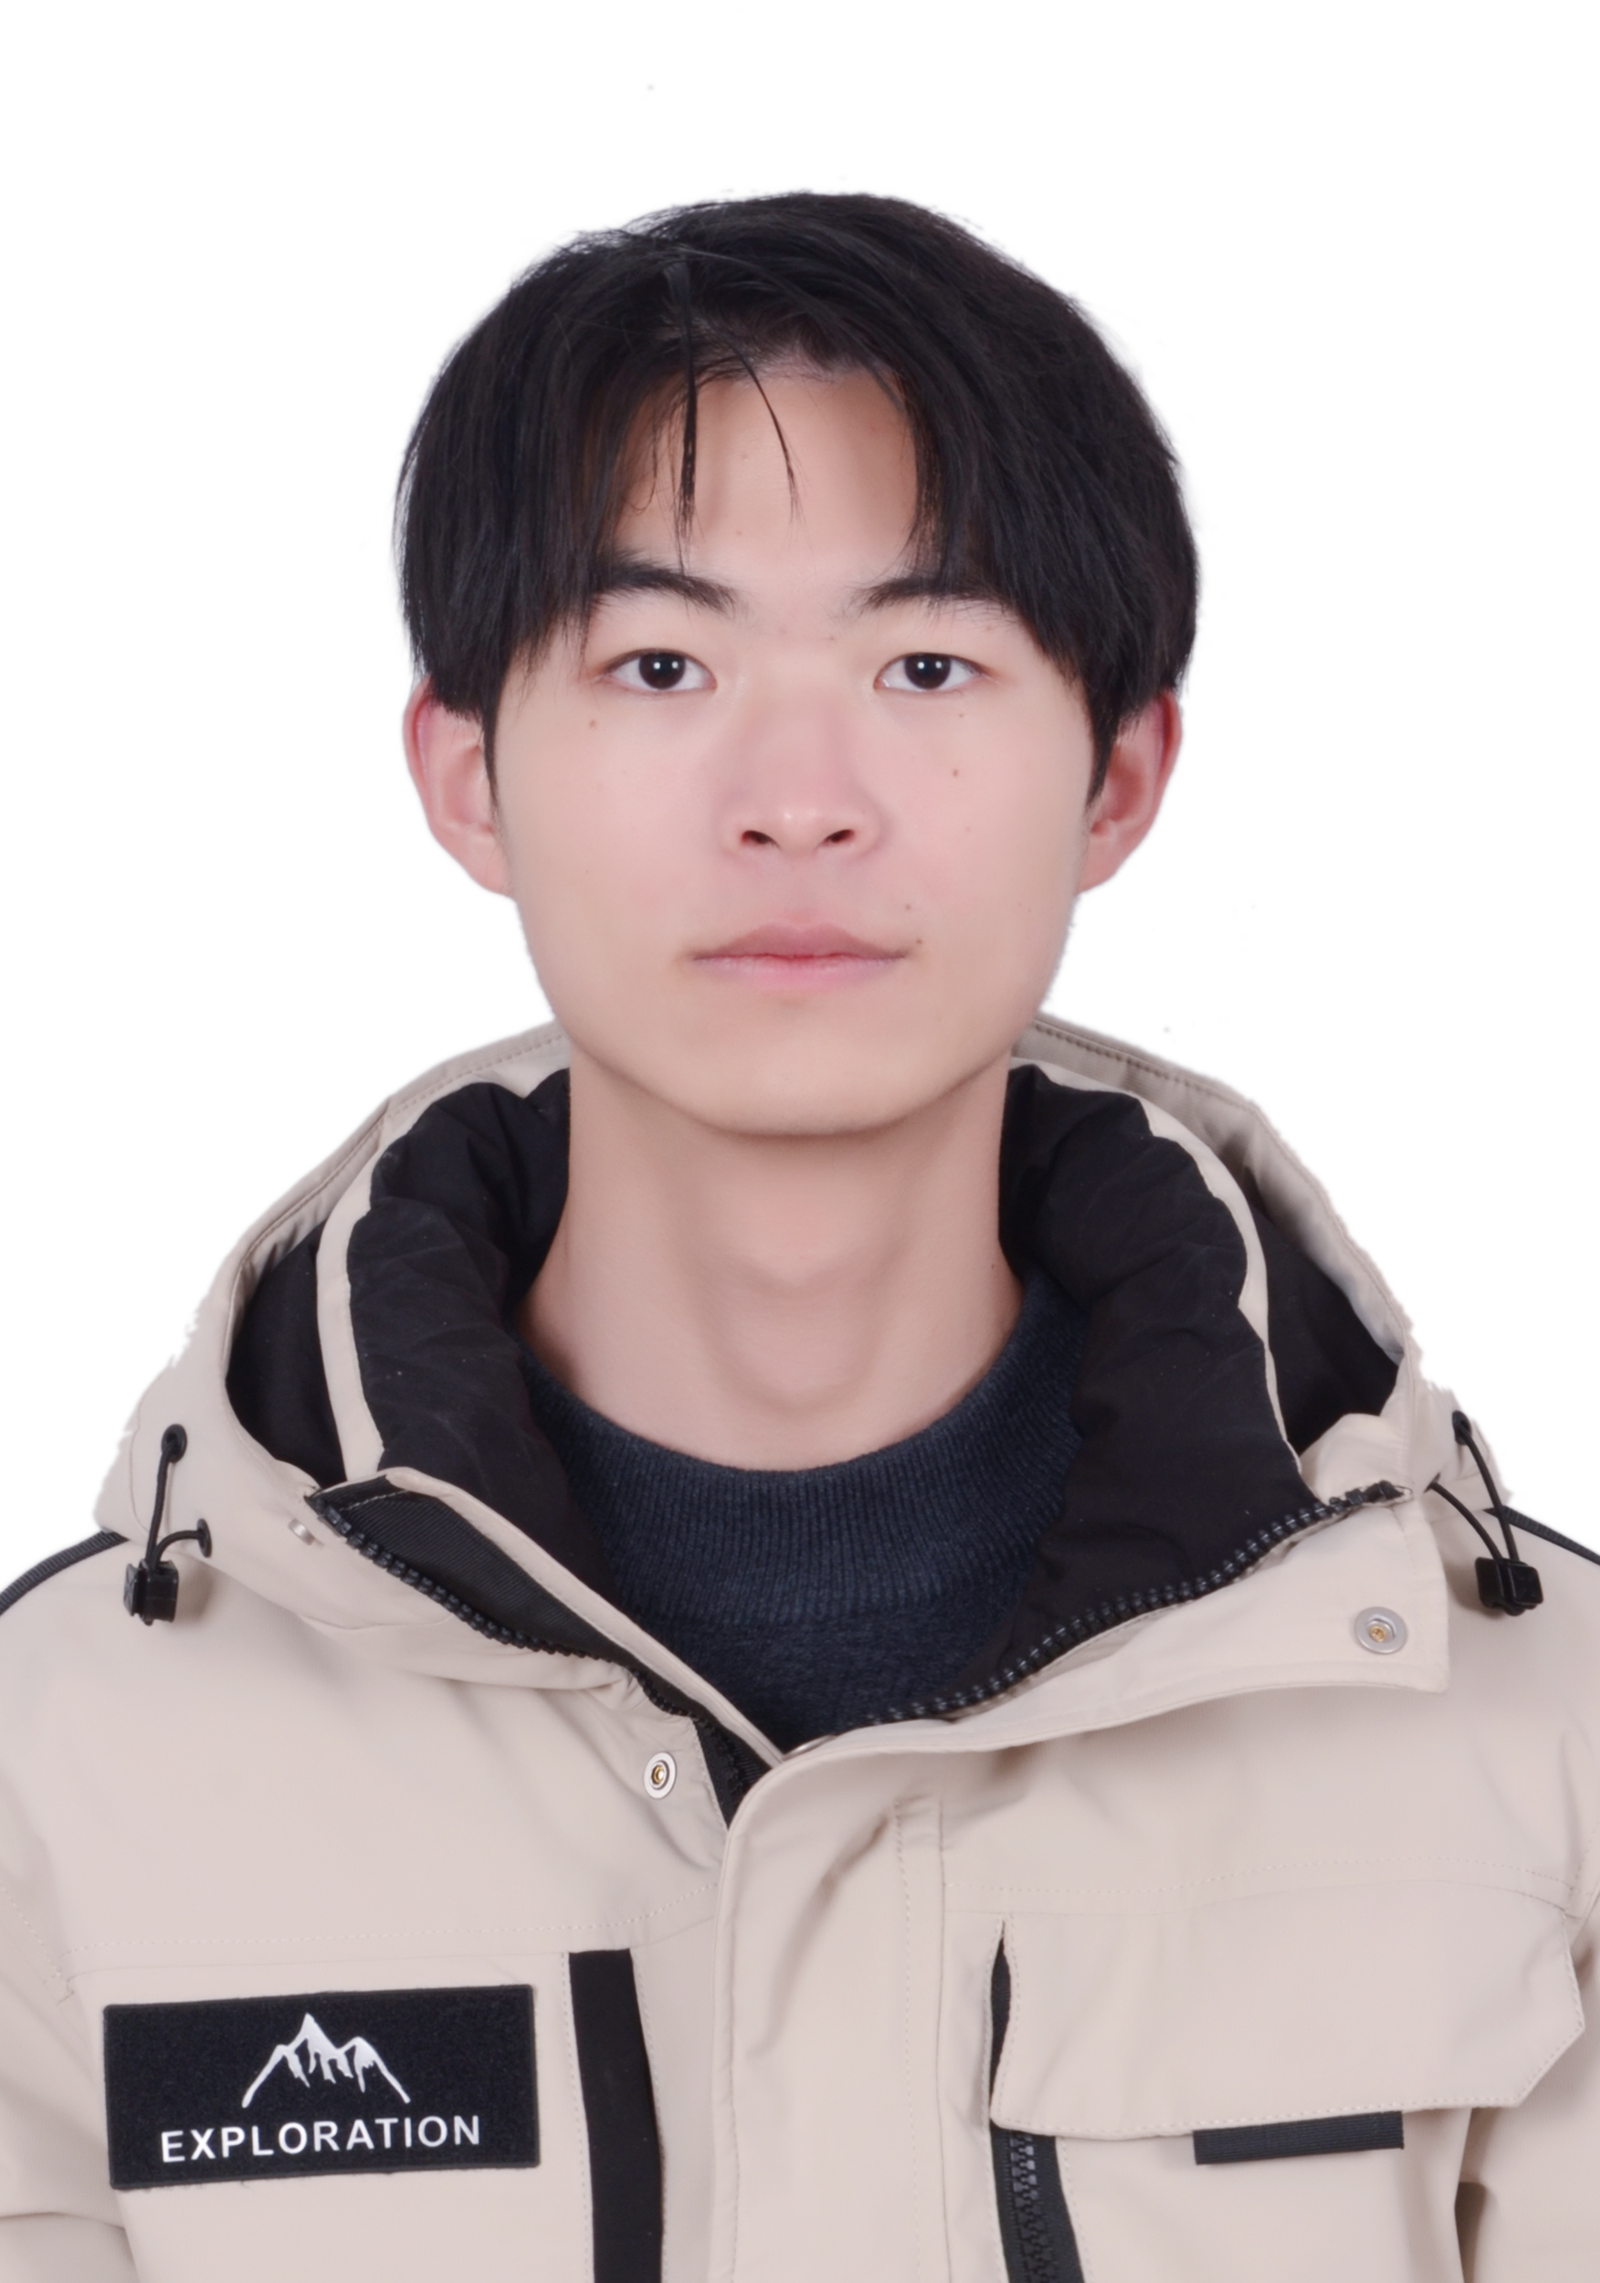
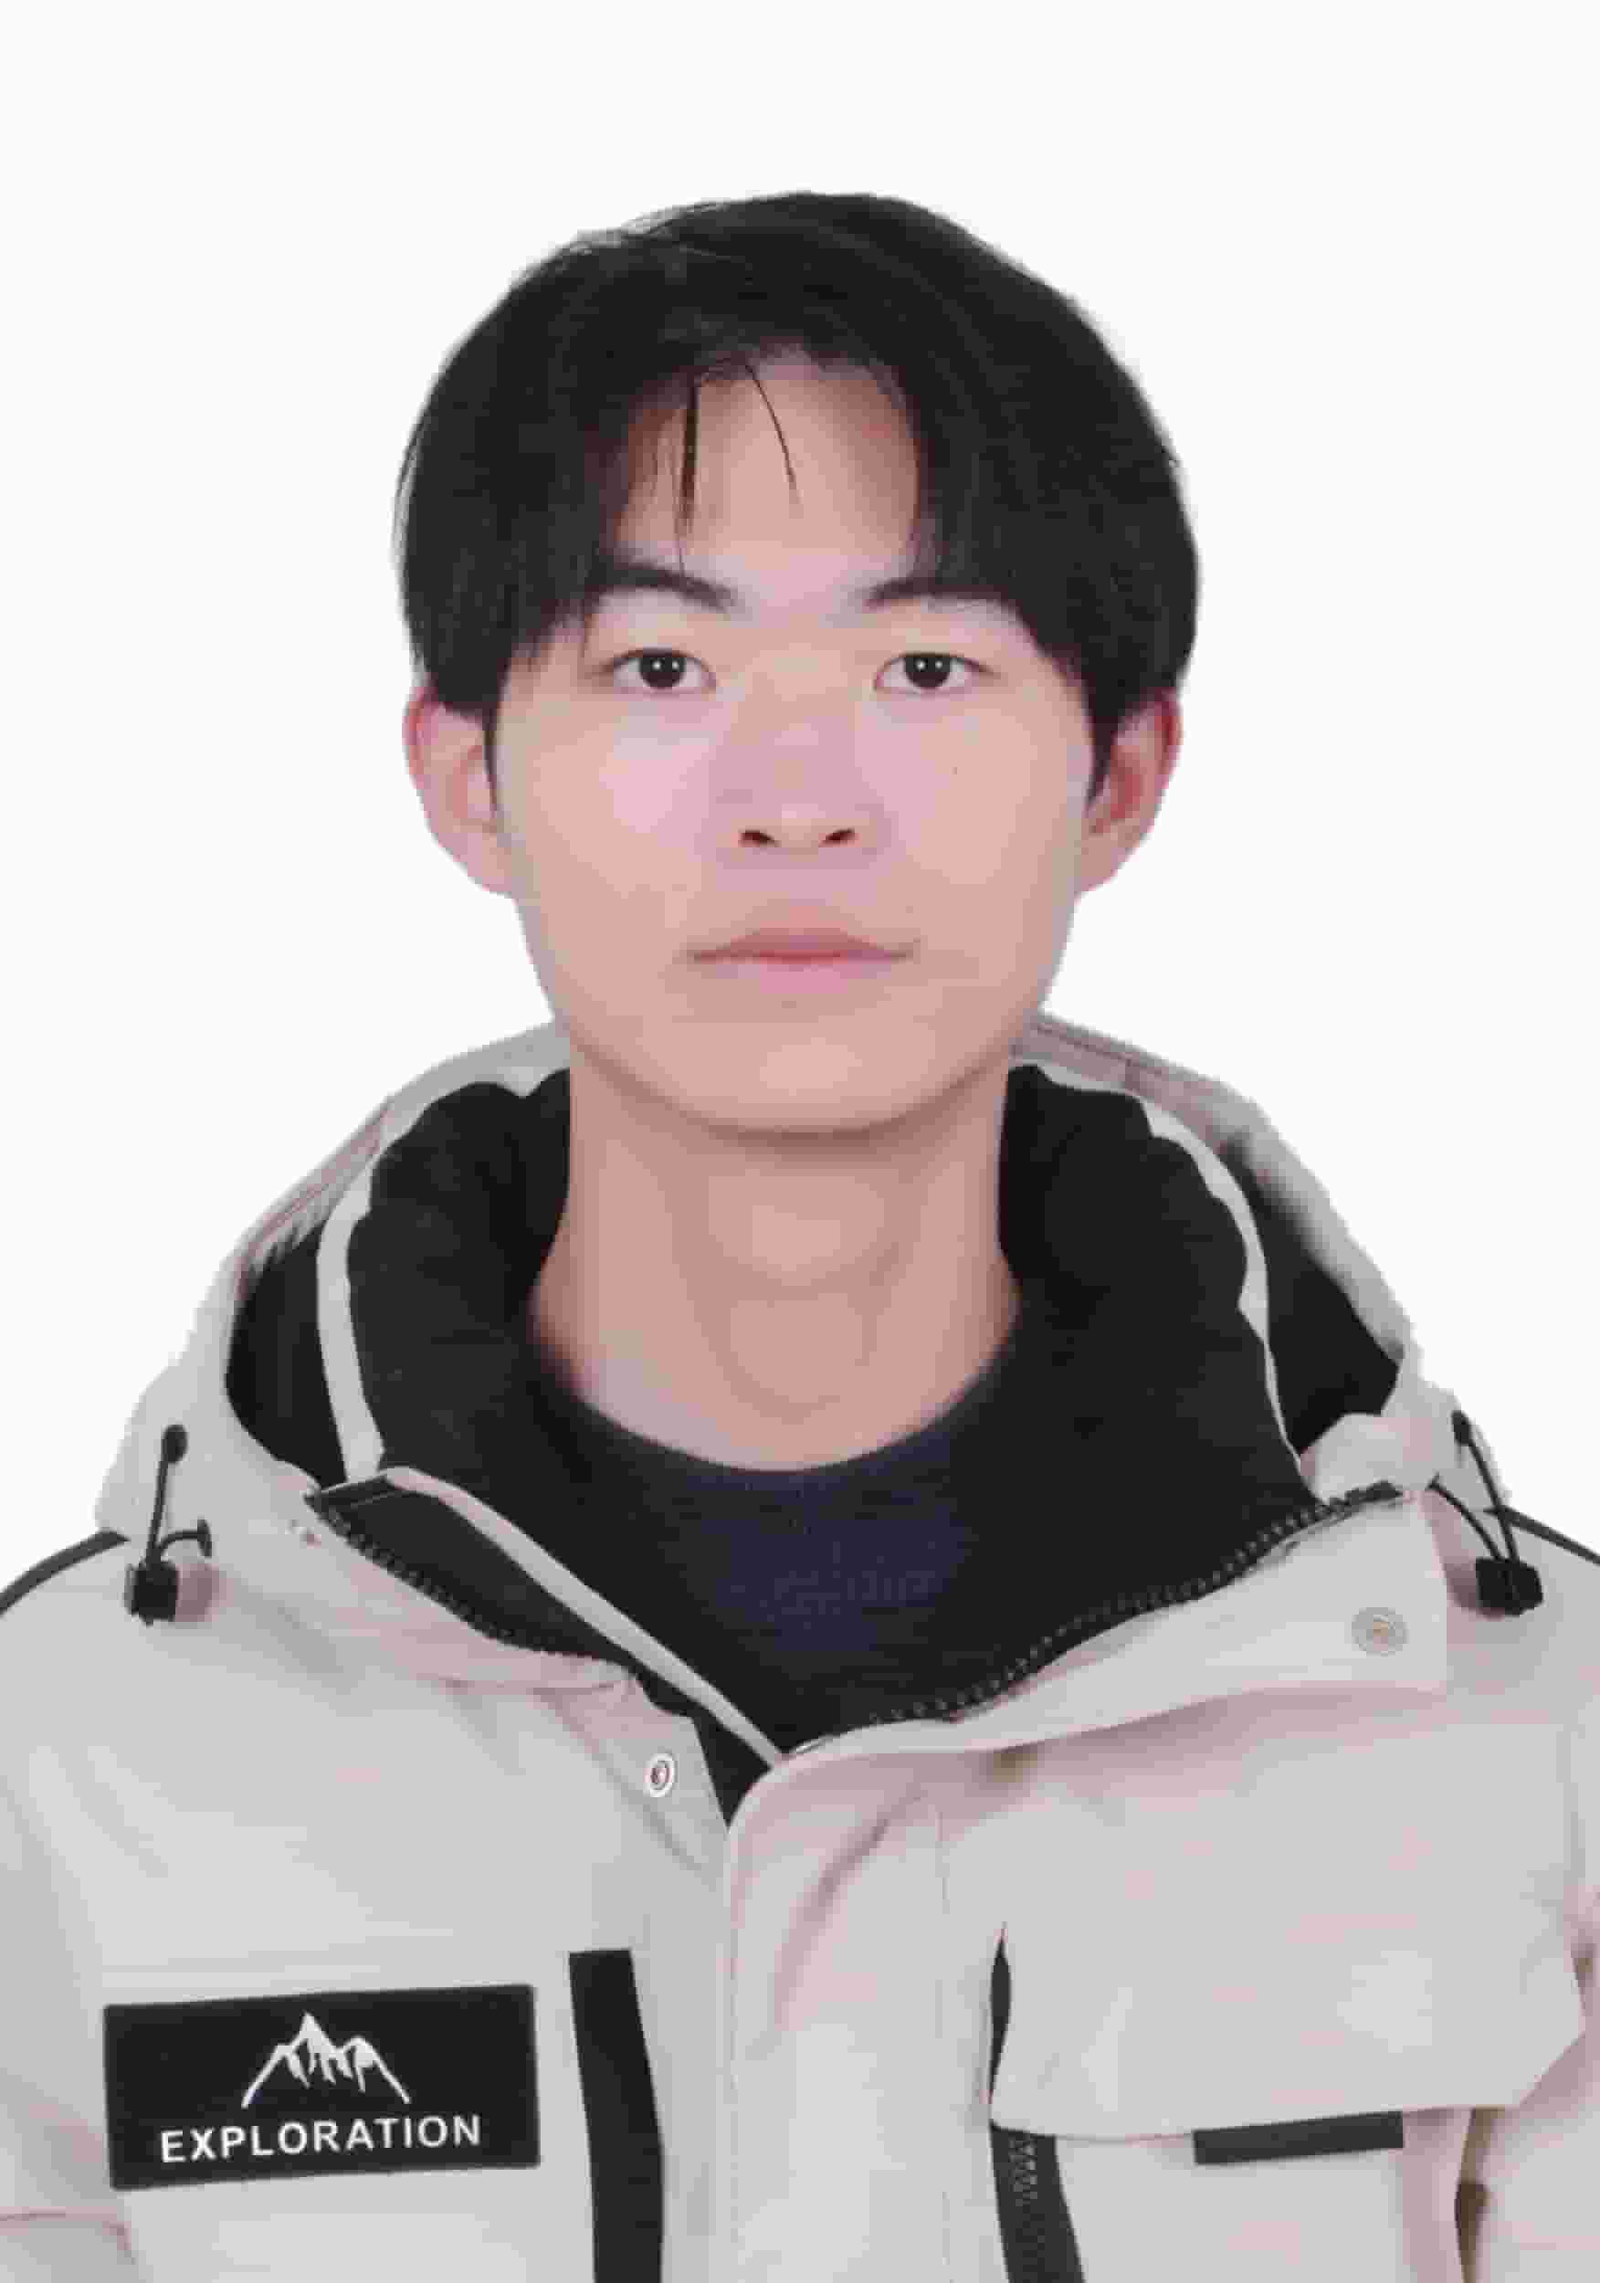
pengyt pic compress

Changed region(s): [[0.1541, 0.8736, 0.2774, 0.936], [0.9247, 0.6552, 0.9555, 0.6864]]

diff --git a/member.html b/member.html
@@ -209,7 +209,7 @@
                 <p>王彬彬</p>
             </div>
 	    <div class="member-item-left">
-                <img src="images/member/photo-pengyt.JPG" width="150" height="180" />
+                <img src="images/member/photo-pengyt.jpg" width="150" height="180" />
                 <p>彭玉涛</p>
             </div>
 	    <div class="member-item-left">
